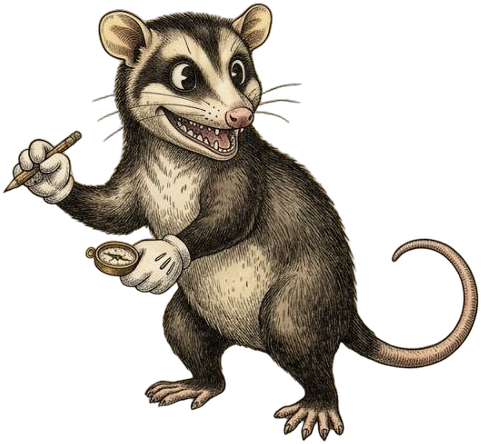
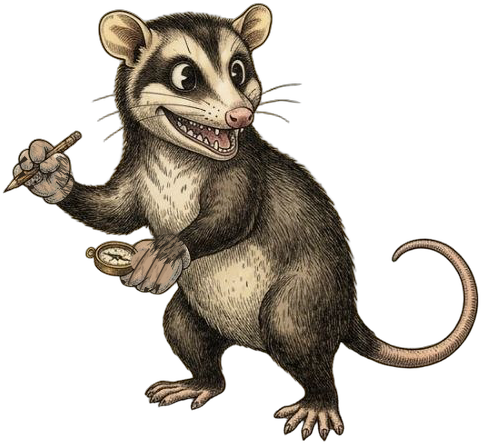
fix(compai): manos de la zarigüeya repintadas — de guantes Mickey a patas con garras
Los guantes blancos estaban PINTADOS en el arte de la lámina: el retinte
por props/JSX no bastaba. Se repintó el propio zariguya.png: base canela
medida en los dedos traseros del mismo dibujo, tramo tapado del lápiz sin
proteger (la veta blanca de la v1), rayitas Mickey tapadas, separaciones
de dedos entintadas hasta los festones, garras en las puntas y muñeca
peluda que funde con el antebrazo. Lápiz y brújula quedan sostenidos sin
guante; cara y expresión intactas.

Silueta y huella INTACTAS: todo píxel nuevo cae dentro de las primitivas
de anatomia.js — los cortes de capas.js y el INPAINT_PECHO siguen válidos
(32/32 tests verdes).

Gate (evidencia en _gate/zariguya-sin-guantes/): judge-vl qwen3-vl:8b con
control positivo — render ANTES «sí» (ve guantes) → render idle DESPUÉS
«no», y «no» por mano en recortes 4x; métrica dura blancos L>205 en las
elipses de mano: [547,1062] → [0,0].

Changed region(s): [[0.2495, 0.4977, 0.4054, 0.6734], [0.0312, 0.3221, 0.1559, 0.4685]]

diff --git a/src/visual/creatures/zariguyaLamina/anatomia.js b/src/visual/creatures/zariguyaLamina/anatomia.js
@@ -9,11 +9,20 @@
  * vector — el error de los 5 días) y la VIDA tiene que salir del mismo
  * sistema de Angelita/el jaguar (`useVidaIdle` + `useRitmoPropio` +
  * `useMiradaUsted` + visemas). La lámina es un retrato ¾ ERGUIDO: la
- * zarigüeya de pie, guante blanco con LÁPIZ en la mano alzada (lado
+ * zarigüeya de pie, PATA canela con garras y LÁPIZ en la mano alzada (lado
  * izquierdo de la lámina), BRÚJULA en la otra manito contra el pecho, COLA
  * PRENSIL desnuda enroscada en C al lado derecho, boca abierta sonriendo
- * con dientes. Los "extras" de la orden (guantes, lápiz+brújula, cola
- * prensil) NO se dibujan: ya están EN la lámina — aquí solo se ARTICULAN.
+ * con dientes. Los "extras" de la orden (lápiz+brújula, cola prensil) NO se
+ * dibujan: ya están EN la lámina — aquí solo se ARTICULAN.
+ *
+ * NOTA 2026-08-18 (`fix/zariguya-sin-guantes-v2`): las manos, que en la
+ * lámina original eran guantes blancos tipo Mickey, se REPINTARON en el
+ * propio PNG como patas reales (canela de los dedos traseros + dedos
+ * entintados + garras + muñeca peluda), con la HUELLA intacta: las
+ * primitivas de este archivo (la elipse se sigue llamando `guante`) y
+ * el INPAINT_PECHO siguen midiendo lo mismo. Gate: judge-vl control
+ * positivo sí→no + 0 blancos L>205 en ambas elipses
+ * (`_gate/zariguya-sin-guantes/`).
  *
  * CÓMO SE MIDIÓ (honestidad del método — el mismo de anatomia.js del
  * jaguar): sobre `zariguya.png` (481×444, confirmado con

diff --git a/src/visual/creatures/ZariguyaLaminaViva.jsx b/src/visual/creatures/ZariguyaLaminaViva.jsx
@@ -26,7 +26,7 @@ const JAW_DE_VISEMA = { V1: 0, V2: 0.42, V3: 1, V4: 0.36 };
 
 /**
  * ZariguyaLaminaViva — la LÁMINA aprobada de la zarigüeya (`zariguya.png`,
- * estilo grabado: erguida, guante blanco con lápiz en la mano alzada,
+ * estilo grabado: erguida, pata canela con garras y lápiz en la mano alzada,
  * brújula en la otra, cola prensil en C) recortada en capas por alfa y
  * montada sobre un rig con la VIDA de Angelita — hermana 1:1 de
  * `JaguarLaminaViva.jsx` (leer su docstring para el porqué del método).
@@ -55,7 +55,7 @@ const JAW_DE_VISEMA = { V1: 0, V2: 0.42, V3: 1, V4: 0.36 };
  *   · Al abrir MÁS la boca se destapa una franja sin píxeles: la tapa el
  *     interior de boca SINTÉTICO (`.zlv-bocaInterior`, único píxel no-PNG
  *     del dibujo — mismo trato que el jaguar).
- *   · Detrás del guante de la brújula hay pecho: el cuerpo lo rellena
+ *   · Detrás de la manito de la brújula hay pecho: el cuerpo lo rellena
  *     `capas.js` CLONANDO la lanilla del propio vientre (INPAINT_PECHO) —
  *     píxeles de la lámina, movidos.
  *   · Las patas NO se cortan (lección "3-4 patas" del jaguar): el caminar
